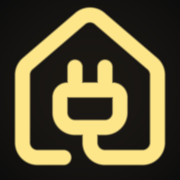
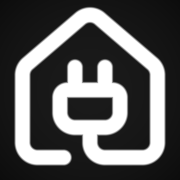
fix: less yellow
With every room lit, seven amber-ringed cards and an amber bar read as
seven warnings rather than a house. The inspiration this started from
has no card outlines at all — cards separate by fill — and that is the
calmer thing.

So the lit ring and the lit wash are gone, and so is the neutral one: a
card is told from the page by its own background. Amber now means
exactly one thing, a power disc that is on.

The icons went white for the same reason. Spending the accent on the
app's own identity left nothing for it to mean — the tab, the Home
Screen and the splash all reading as a state nothing was reporting.

An off disc is filled rather than outlined. A light that has never
reported keeps its dashed border, because that is a different claim
from off and still worth drawing differently.

diff --git a/web/src/components/RoomCard.tsx b/web/src/components/RoomCard.tsx
@@ -44,12 +44,11 @@ export function RoomCard({
 
   return (
     <Dialog>
-      <div
-        className={cn(
-          "flex flex-col overflow-hidden rounded-xl bg-card text-card-foreground ring-1 transition-colors",
-          lit ? "ring-amber-300/40" : "ring-foreground/10",
-        )}
-      >
+      {/* No outline, and no tint when the room is lit. Seven ringed
+          cards read as seven warnings; the card is separated from the
+          page by its own fill, and the one amber thing on it is the
+          switch, which is the only thing reporting a state. */}
+      <div className="flex flex-col overflow-hidden rounded-xl bg-card text-card-foreground">
         <button
           type="button"
           disabled={disabled}
@@ -64,7 +63,6 @@ export function RoomCard({
             "sm:flex-row sm:items-center sm:gap-3 sm:p-4",
             "hover:bg-muted/50 focus-visible:ring-3 focus-visible:ring-ring/50 focus-visible:-outline-offset-2 focus-visible:outline-none",
             "disabled:cursor-not-allowed disabled:opacity-60",
-            lit && "bg-amber-200/[0.07]",
           )}
         >
           {/* The whole card is the switch, so the icon is a read-out
@@ -72,10 +70,8 @@ export function RoomCard({
           <span
             aria-hidden
             className={cn(
-              "flex size-10 shrink-0 items-center justify-center rounded-full border transition-colors sm:size-12",
-              lit
-                ? "border-transparent bg-amber-200 text-amber-950"
-                : "border-border text-muted-foreground",
+              "flex size-10 shrink-0 items-center justify-center rounded-full transition-colors sm:size-12",
+              lit ? "bg-amber-200 text-amber-950" : "bg-muted text-muted-foreground",
             )}
           >
             <PowerGlyph />
@@ -107,7 +103,7 @@ export function RoomCard({
           </span>
         </button>
 
-        <DialogTrigger className="border-border text-muted-foreground hover:bg-muted hover:text-foreground focus-visible:ring-3 focus-visible:ring-ring/50 focus-visible:-outline-offset-2 flex items-center justify-between gap-1 border-t px-3 py-2.5 text-left text-xs transition-colors focus-visible:outline-none sm:px-4 sm:gap-2">
+        <DialogTrigger className="border-border/60 text-muted-foreground hover:bg-muted hover:text-foreground focus-visible:ring-3 focus-visible:ring-ring/50 focus-visible:-outline-offset-2 flex items-center justify-between gap-1 border-t px-3 py-2.5 text-left text-xs transition-colors focus-visible:outline-none sm:px-4 sm:gap-2">
           <span className="truncate">
             {room.lights.length === 1
               ? "Adjust this light"

diff --git a/web/src/components/PowerButton.tsx b/web/src/components/PowerButton.tsx
@@ -36,15 +36,17 @@ export function PowerButton({
       aria-label={`${label} — ${unknown ? "state unknown" : on ? "on" : "off"}`}
       onClick={() => onToggle(!on)}
       className={cn(
-        "flex shrink-0 items-center justify-center rounded-full border transition-colors",
+        "flex shrink-0 items-center justify-center rounded-full transition-colors",
         "focus-visible:ring-3 focus-visible:ring-ring/50 focus-visible:outline-none",
         "disabled:cursor-not-allowed disabled:opacity-50",
         size === "lg" ? "size-12 [&_svg]:size-5" : "size-10 [&_svg]:size-4",
         on
-          ? "border-transparent bg-amber-200 text-amber-950 hover:bg-amber-100"
+          ? "bg-amber-200 text-amber-950 hover:bg-amber-100"
           : unknown
-            ? "border-dashed border-border text-muted-foreground hover:bg-muted"
-            : "border-border text-muted-foreground hover:bg-muted hover:text-foreground",
+            // Still drawn differently: a light nobody has heard from is
+            // not the same claim as one reporting off.
+            ? "border border-dashed border-border text-muted-foreground hover:bg-muted"
+            : "bg-muted text-muted-foreground hover:text-foreground",
         className,
       )}
     >

diff --git a/web/src/components/HouseBar.tsx b/web/src/components/HouseBar.tsx
@@ -33,19 +33,16 @@ export function HouseBar({ rooms, disabled, onToggle }: HouseBarProps) {
       aria-label={`The whole house, ${summary}. Turn everything ${lit ? "off" : "on"}.`}
       onClick={onToggle}
       className={cn(
-        "flex w-full items-center gap-3 rounded-xl bg-card px-3 py-2.5 text-left ring-1 transition-colors sm:px-4",
+        "flex w-full items-center gap-3 rounded-xl bg-card px-3 py-2.5 text-left transition-colors sm:px-4",
         "hover:bg-muted/50 focus-visible:ring-3 focus-visible:ring-ring/50 focus-visible:-outline-offset-2 focus-visible:outline-none",
         "disabled:cursor-not-allowed disabled:opacity-60",
-        lit ? "bg-amber-200/[0.07] ring-amber-300/40" : "ring-foreground/10",
       )}
     >
       <span
         aria-hidden
         className={cn(
-          "flex size-9 shrink-0 items-center justify-center rounded-full border transition-colors",
-          lit
-            ? "border-transparent bg-amber-200 text-amber-950"
-            : "border-border text-muted-foreground",
+          "flex size-9 shrink-0 items-center justify-center rounded-full transition-colors",
+          lit ? "bg-amber-200 text-amber-950" : "bg-muted text-muted-foreground",
         )}
       >
         <svg

diff --git a/web/src/components/SignIn.tsx b/web/src/components/SignIn.tsx
@@ -62,7 +62,7 @@ function HouseMark() {
       strokeWidth="1.5"
       strokeLinecap="round"
       strokeLinejoin="round"
-      className="size-14 text-amber-200"
+      className="size-14 text-foreground"
       aria-hidden
     >
       <path d="M10 12V8.964" />
